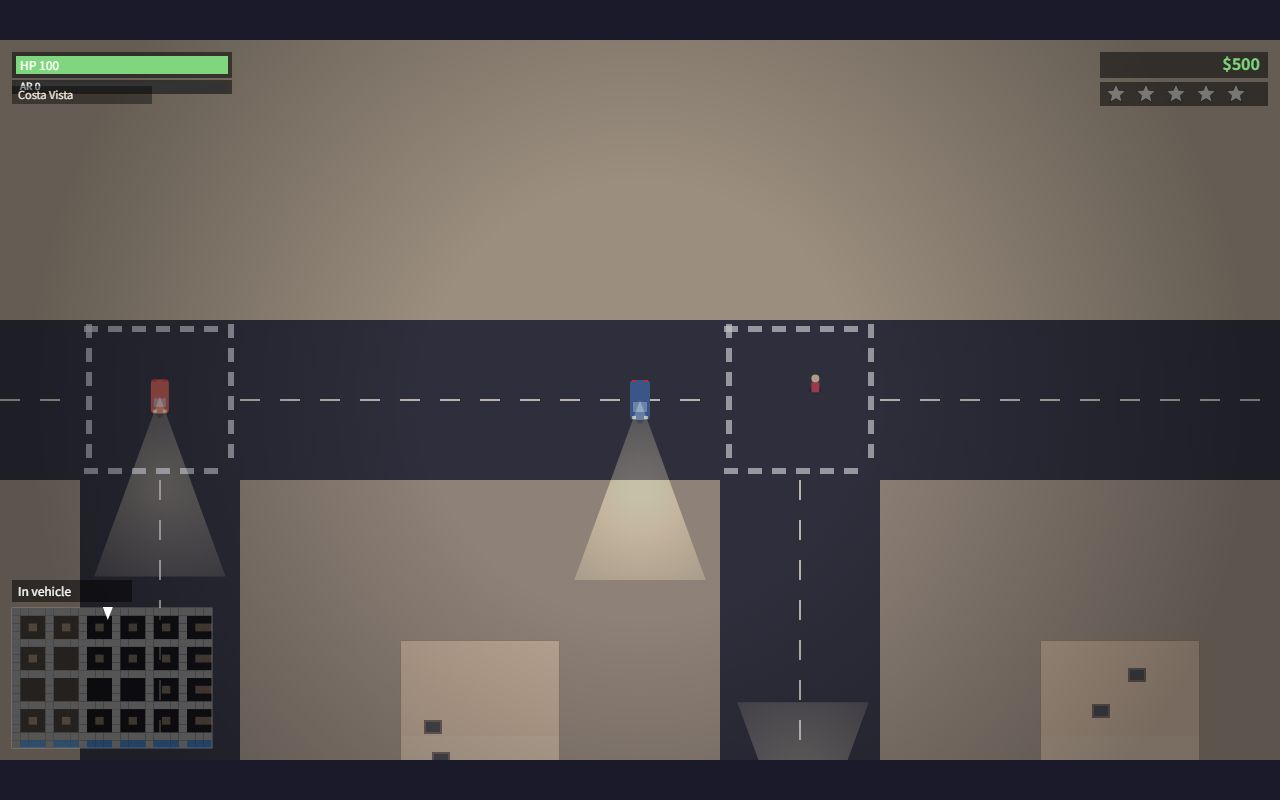
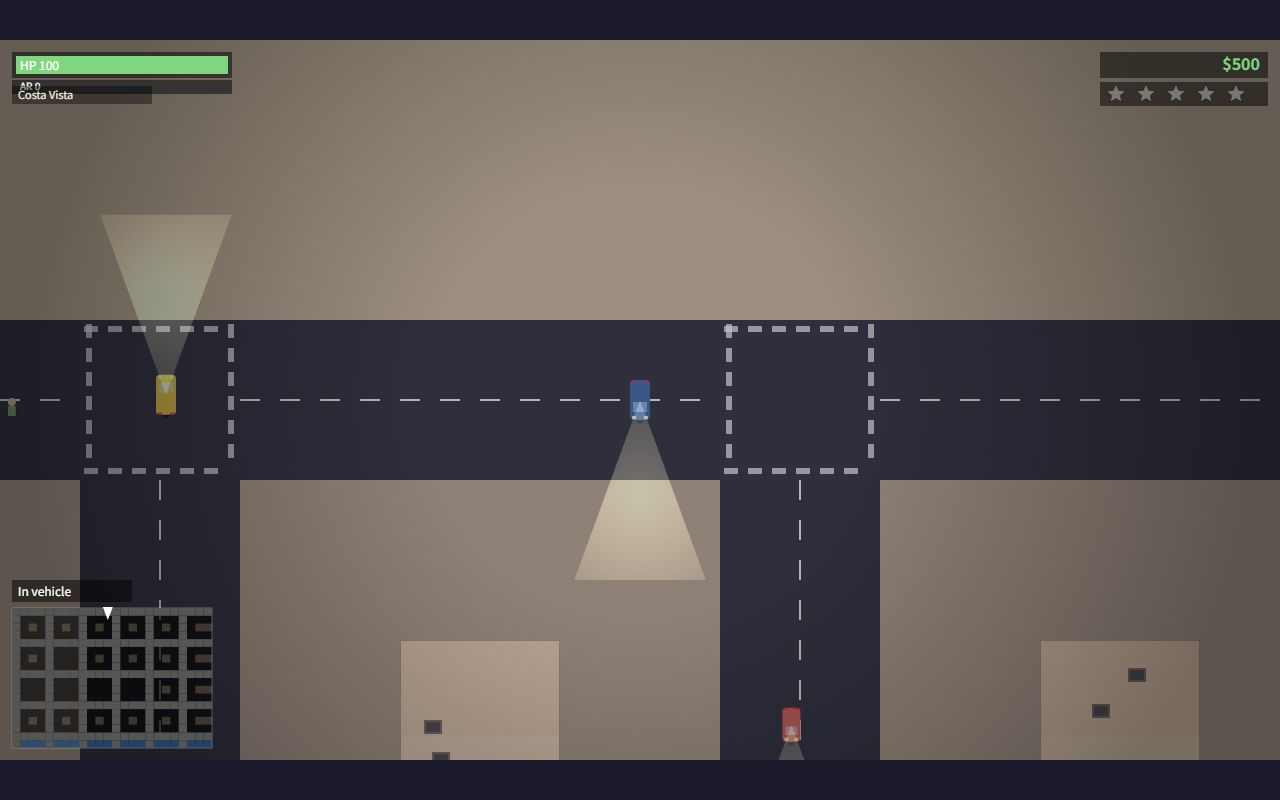
Re-authored SUNSET COAST sources under recording; new screenshots

diff --git a/game/src/city.js b/game/src/city.js
@@ -1,4 +1,7 @@
-// city.js — procedural grid city derived from a seed
+// city.js - procedural grid city derived from a seed (Pacificora)
+// The map is a 24x18 tile grid with roads every fourth tile.
+// Parks, water, beach, plazas and sidewalks are layered on top of buildings.
+// Solidity and road tests are exposed for movement and AI queries.
 function generateCity(seed) {
     const C = CONFIG;
     const rng = createRng(seed);
@@ -158,10 +161,10 @@ function drawCity(ctx, cam, day) {
             } else if (t === C.T_PARK) {
                 ctx.fillStyle = C.COLORS.park;
                 ctx.fillRect(x, y, T, T);
-                const seed = tx * 7 + ty * 13;
+                const seedv = tx * 7 + ty * 13;
                 for (let i = 0; i < 3; i++) {
-                    const px = x + 20 + ((seed * (i + 1) * 37) % (T - 40));
-                    const py = y + 20 + ((seed * (i + 2) * 53) % (T - 40));
+                    const px = x + 20 + ((seedv * (i + 1) * 37) % (T - 40));
+                    const py = y + 20 + ((seedv * (i + 2) * 53) % (T - 40));
                     const sway = Math.sin(performance.now() / 800 + tx + ty) * 3;
                     ctx.fillStyle = C.COLORS.parkDark;
                     ctx.beginPath(); ctx.arc(px + sway, py, 14, 0, Math.PI * 2); ctx.fill();

diff --git a/game/src/vehicles.js b/game/src/vehicles.js
@@ -1,4 +1,7 @@
-// vehicles.js — vehicle definitions, traffic, and driving physics
+// vehicles.js - vehicle definitions, traffic and driving physics
+// Defines every drivable type from compacts to the police helicopter.
+// Handles player driving, traffic AI, collisions and spawn culling.
+// spawnTrafficAround keeps the world populated as the camera moves.
 const VEHICLE_TYPES = {
     compact: { name: "Compact", maxSpeed: 230, accel: 190, brake: 260, handling: 3.0, color: "#d96a5a", w: 34, h: 18 },
     sedan:   { name: "Sedan",   maxSpeed: 250, accel: 200, brake: 280, handling: 2.8, color: "#4a6fa5", w: 40, h: 20 },
@@ -274,7 +277,7 @@ function spawnParkedAround(cam) {
 
 function spawnPoliceIfNeeded(cam) {
     if (WANTED <= 0) {
-        for (let i = VEHICLES.length - 1; i >= 0; i++) if (VEHICLES[i].isPolice) VEHICLES.splice(i, 1);
+        for (let i = VEHICLES.length - 1; i >= 0; i--) if (!VEHICLES[i] || VEHICLES[i].isPolice) VEHICLES.splice(i, 1);
         return;
     }
     const police = VEHICLES.filter(v => v.isPolice).length;

diff --git a/game/src/police.js b/game/src/police.js
@@ -1,4 +1,7 @@
-// police.js — wanted level, dispatch, pursuit AI, busted
+// police.js - wanted level, dispatch, pursuit AI, busted
+// Wanted level drives cruisers, SWAT, helicopter and roadblocks.
+// Heat decays when no officer has line of sight on the player.
+// Busted triggers on close contact and respawns at Pacificora PD.
 const POLICE_OFFICERS = [];
 const ROADBLOCKS = [];
 let HELI = null;
@@ -31,7 +34,7 @@ function decayTimeForStar(s) {
 }
 
 function removePoliceAll() {
-    for (let i = VEHICLES.length - 1; i >= 0; i++) if (VEHICLES[i].isPolice) VEHICLES.splice(i, 1);
+    for (let i = VEHICLES.length - 1; i >= 0; i--) if (!VEHICLES[i] || VEHICLES[i].isPolice) VEHICLES.splice(i, 1);
     POLICE_OFFICERS.length = 0;
     ROADBLOCKS.length = 0;
     HELI = null;

diff --git a/game/src/shots.js b/game/src/shots.js
@@ -1,4 +1,7 @@
-// shots.js — deterministic screenshot scenes
+// shots.js - deterministic screenshot scenes
+// Four fixed scenes provide reproducible marketing screenshots.
+// Each scene sets up vehicles, police and lighting then freezes.
+// SHOT_READY is signaled on document.body for headless capture.
 let SHOT_BANNER = null;
 window.SHOT_BANNER = SHOT_BANNER;
 
@@ -12,6 +15,7 @@ function setupShot(name) {
     CASH = 500; WANTED = 0; BULLETS.length = 0; PARTICLES.length = 0; SKIDMARKS.length = 0; PEDS.length = 0; VEHICLES.length = 0;
     POLICE_OFFICERS.length = 0; ROADBLOCKS.length = 0; HELI = null;
     DAY_TIME = 0.35;
+    if (name === "city") DAY_TIME = 0.5;
     if (name === "night") DAY_TIME = 0.82;
     if (name === "chase") DAY_TIME = 0.72;
 

diff --git a/game/src/rng.js b/game/src/rng.js
@@ -1,5 +1,8 @@
-// rng.js — mulberry32 PRNG; the entire world derives from a single seed.
-function mulberry32(seed) {
+// rng.js - mulberry32 PRNG; the entire world derives from a single seed
+// A single seed drives the whole city layout, traffic and pedestrian placement.
+// Mulberry32 is small, fast and deterministic across browsers.
+// Helpers below wrap the raw generator with int/pick/range conveniences.
+function makeMulberry32(seed) {
     let state = seed >>> 0;
     return function next() {
         state |= 0;
@@ -11,7 +14,7 @@ function mulberry32(seed) {
 }
 
 function createRng(seed) {
-    return mulberry32((seed >>> 0) || 1);
+    return makeMulberry32((seed >>> 0) || 1);
 }
 
 function rngInt(rng, n) {

diff --git a/game/src/game.js b/game/src/game.js
@@ -1,4 +1,7 @@
-// game.js — core loop, state machine, rendering orchestration
+// game.js - core loop, state machine, rendering orchestration
+// Owns the main update and render pipeline for every frame.
+// State machine covers title, play, pause, dead, busted, dialog and shop.
+// Camera follow, lighting and headlight rendering are coordinated here.
 function wantedRaise(amount) {
     WANTED = Math.min(5, WANTED + (amount || 1));
     if (window.setWantedFlash) window.setWantedFlash(0.6);

diff --git a/game/src/player.js b/game/src/player.js
@@ -1,4 +1,7 @@
-// player.js — on-foot protagonist
+// player.js - on-foot protagonist of Sunset Coast
+// Tracks health, armor, weapon, ammo and vehicle occupancy.
+// Movement uses axis-separated collision against solid tiles.
+// Fists and pistol combat plus enter/exit vehicle handling live here.
 const PLAYER = {
     x: 0, y: 0, angle: 0, health: 100, armor: 0, weapon: "fists", ammo: 30,
     onFoot: true, vehicleId: -1, fireCd: 0, meleeCd: 0, deadTimer: 0,

diff --git a/game/src/config.js b/game/src/config.js
@@ -1,4 +1,7 @@
-// config.js — central tuning constants for Sunset Coast
+// config.js - central tuning constants for Sunset Coast (Pacificora)
+// All magic numbers for the simulation live here so tuning is centralized.
+// Tile kinds, player and vehicle physics, wanted decay and day length are defined below.
+// Colors are kept in one palette block for easy theming of the coastal city.
 const CONFIG = {
     CANVAS_W: 1280,
     CANVAS_H: 720,

diff --git a/game/src/effects.js b/game/src/effects.js
@@ -1,4 +1,7 @@
-// effects.js — particles, skids, explosions, screen shake, muzzle flashes
+// effects.js - particles, skids, explosions, screen shake, muzzle flashes
+// All transient visual feedback lives here: particles, skids and blasts.
+// Screen shake intensity decays over time for impact feel.
+// Nothing here affects simulation state beyond spawning visuals.
 let PARTICLES = [];
 let SKIDMARKS = [];
 let EXPLOSIONS = [];

diff --git a/game/src/main.js b/game/src/main.js
@@ -1,4 +1,7 @@
-// main.js — bootstrap and global state
+// main.js - bootstrap and global state
+// Parses seed and shot query parameters on load.
+// Wires input, mouse and canvas events to the game state.
+// Exposes globals and the onerror hook used by verification.
 const params = new URLSearchParams(location.search);
 const SEED = parseInt(params.get("seed") || "1", 10) || 1;
 const SHOT_NAME = params.get("shot");

diff --git a/game/src/missions.js b/game/src/missions.js
@@ -1,4 +1,7 @@
-// missions.js — story chain and mission runner
+// missions.js - story chain and mission runner (Marisol / Rex Costa)
+// Ten story missions chain from Marisol's cafe to Rex Costa's race.
+// Each mission is a list of typed steps with markers and rewards.
+// Progress persists through localStorage mission index.
 let MISSIONS = [];
 let MISSION_INDEX = 0;
 let CURRENT_MISSION = null;

diff --git a/game/src/audio.js b/game/src/audio.js
@@ -1,4 +1,7 @@
-// audio.js — synthesized WebAudio, no external assets
+// audio.js - synthesized WebAudio, no external assets
+// Everything is generated at runtime with oscillators and gains.
+// Mute toggles all output and engine/siren layers follow game state.
+// No external audio files are required for the game to run.
 let AUDIO_CTX = null;
 let AUDIO_MUTED = false;
 let AUDIO_READY = false;
